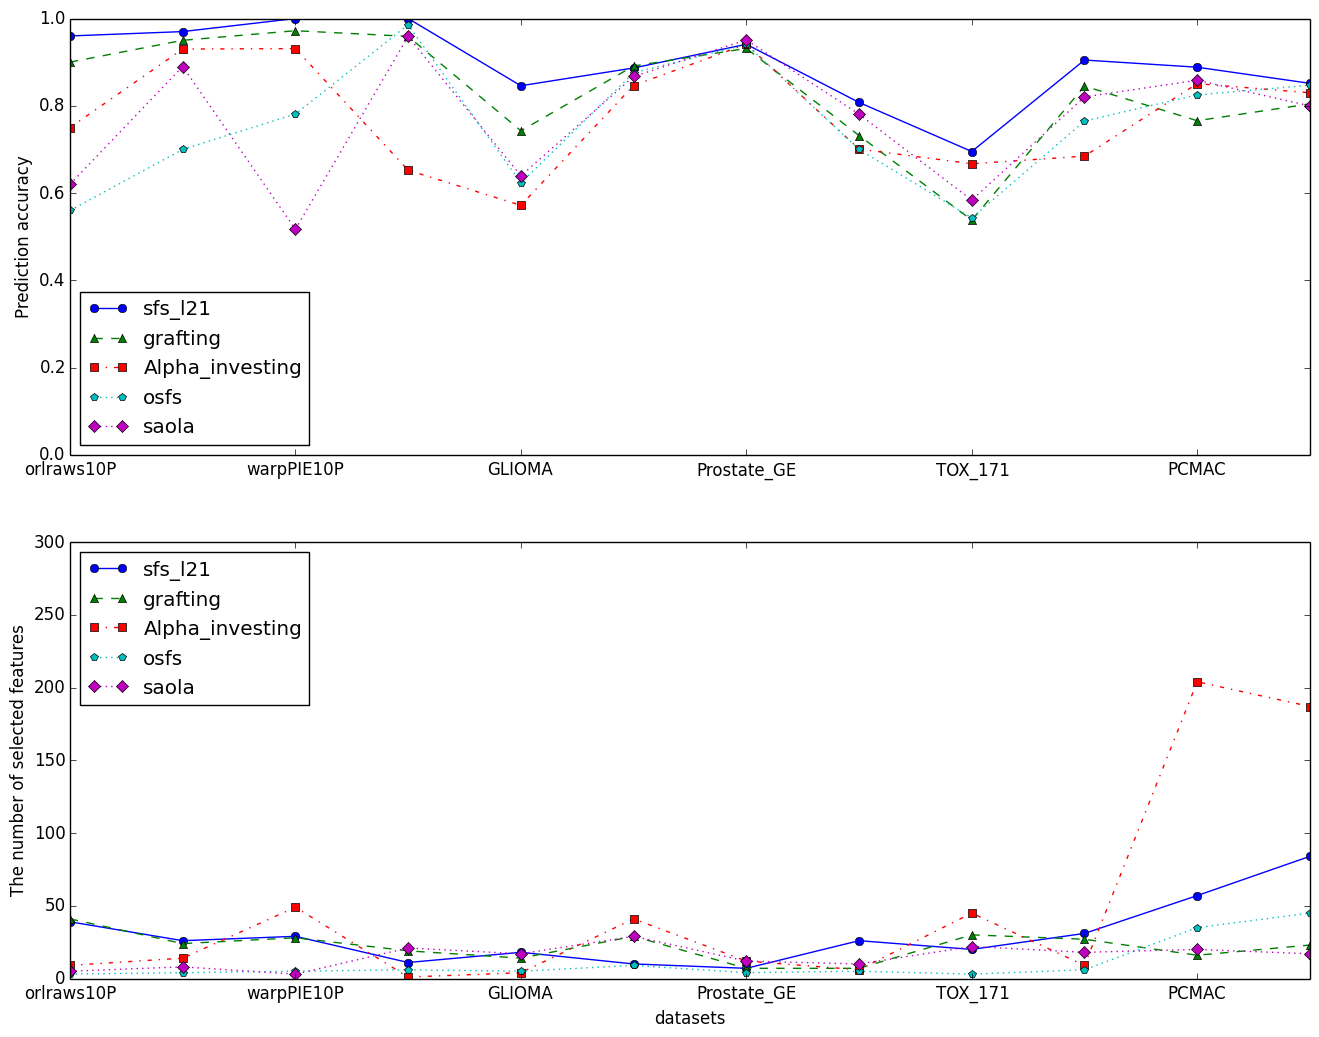
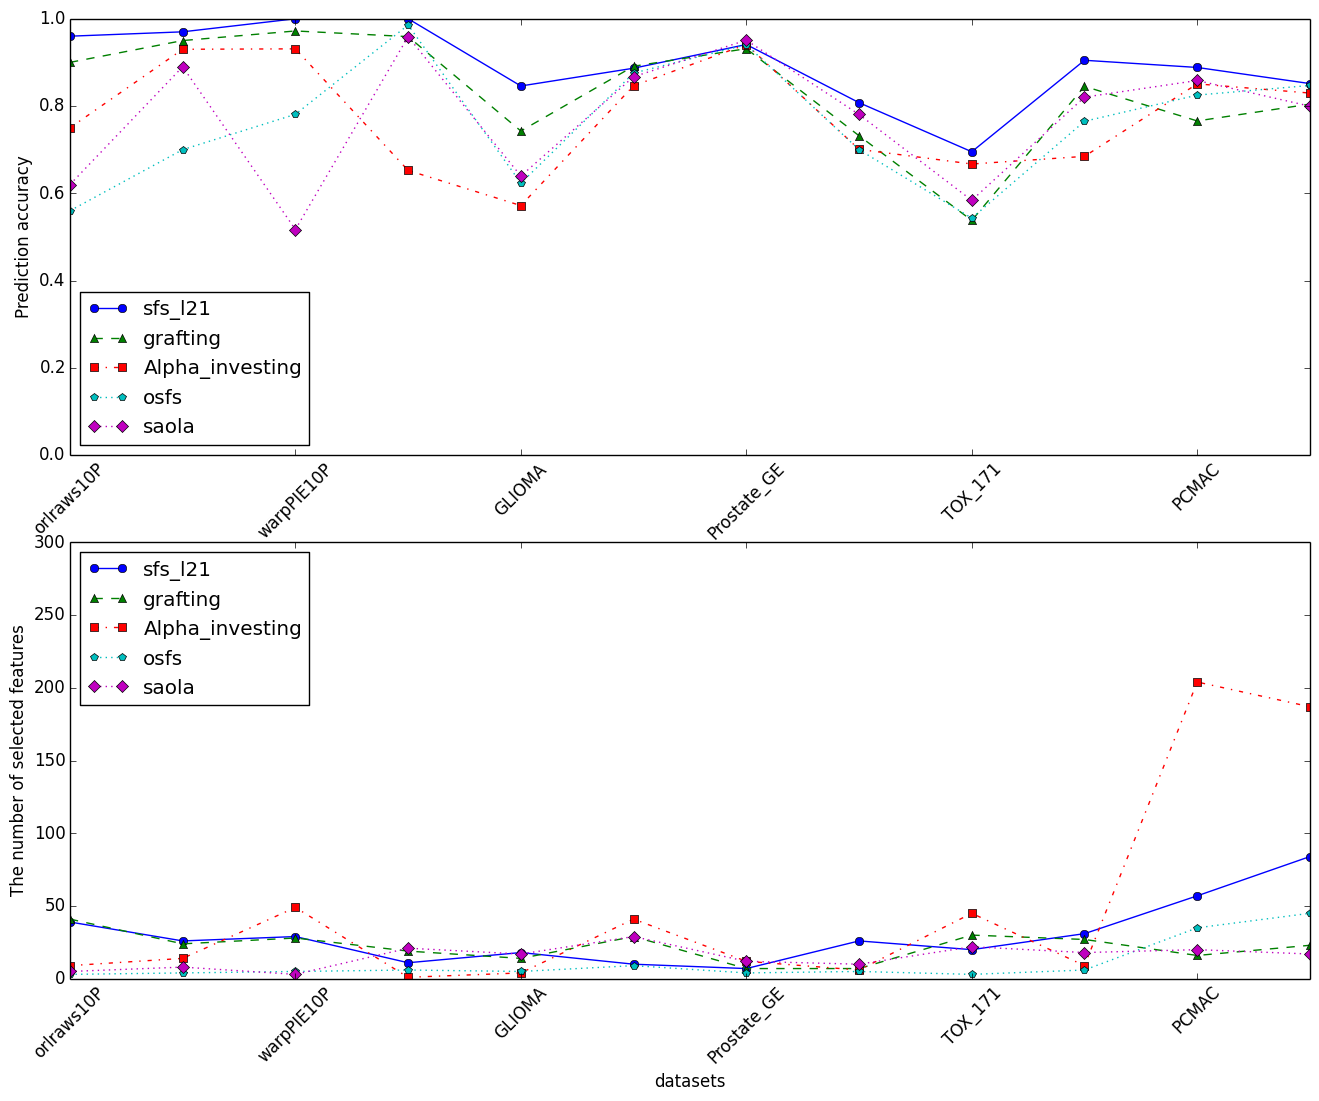
add times.txt for recording time cost and add images folder for storing objective function value

diff --git a/datas/draw.py b/datas/draw.py
@@ -25,8 +25,8 @@ def draw(cls, nfs, fn_png):
     fig, axes = plt.subplots(2, 1)
     # style='o- ^-- s-. +-- x-.'.split(' ')
     style = 'o- ^-- s-. p: D:'.split(' ')
-    cls.plot(ax=axes[0], style=style, ylim=(0.0, 1.0))
-    nfs.plot(ax=axes[1], style=style, ylim=(0, 300))
+    cls.plot(ax=axes[0], style=style, ylim=(0.0, 1.0), rot=45)
+    nfs.plot(ax=axes[1], style=style, ylim=(0, 300), rot=45)
 
     axes[0].set_ylabel('Prediction accuracy')
     axes[1].set_ylabel('The number of selected features')
@@ -68,9 +68,9 @@ def draw_vs_others(cls, nfs):
 
 if __name__ == '__main__':
     clses, nfses = get_dataset_name()
-    clses.to_csv("all_cls.csv")
-    nfses.to_csv("all_nfs.csv")
+    # clses.to_csv("all_cls.csv")
+    # nfses.to_csv("all_nfs.csv")
     print clses
     print nfses
-    draw_vs_others(clses, nfses)
-    # draw(clses, nfses, "all")
+    # draw_vs_others(clses, nfses)
+    draw(clses, nfses, "all")

diff --git a/sfs_l21_norm/grafting_l21.py b/sfs_l21_norm/grafting_l21.py
@@ -41,12 +41,12 @@ def sfs_l21_norm(X, Y, threshold, epsilon):
             W= np.vstack((W, np.ones(c)))
             W, obj_value = update_weight(W, X_model, Y, threshold)
             W, X_model, X_index_retained = refresh_selected(W, X_model, X_index_retained)
-            #'''
+            '''
             print "j = %s obj_value = %s"%(str(j), str(obj_value))
             print "X_index_retained = %s"%str(X_index_retained)
             print "weight matrix: \n%s"%str(W)
             print "***"*30
-            #'''
+            '''
             X_index = np.hstack((X_index, j))
             obj_values = np.hstack((obj_values, obj_value))
     return X_index_retained, W, X_index, obj_values
